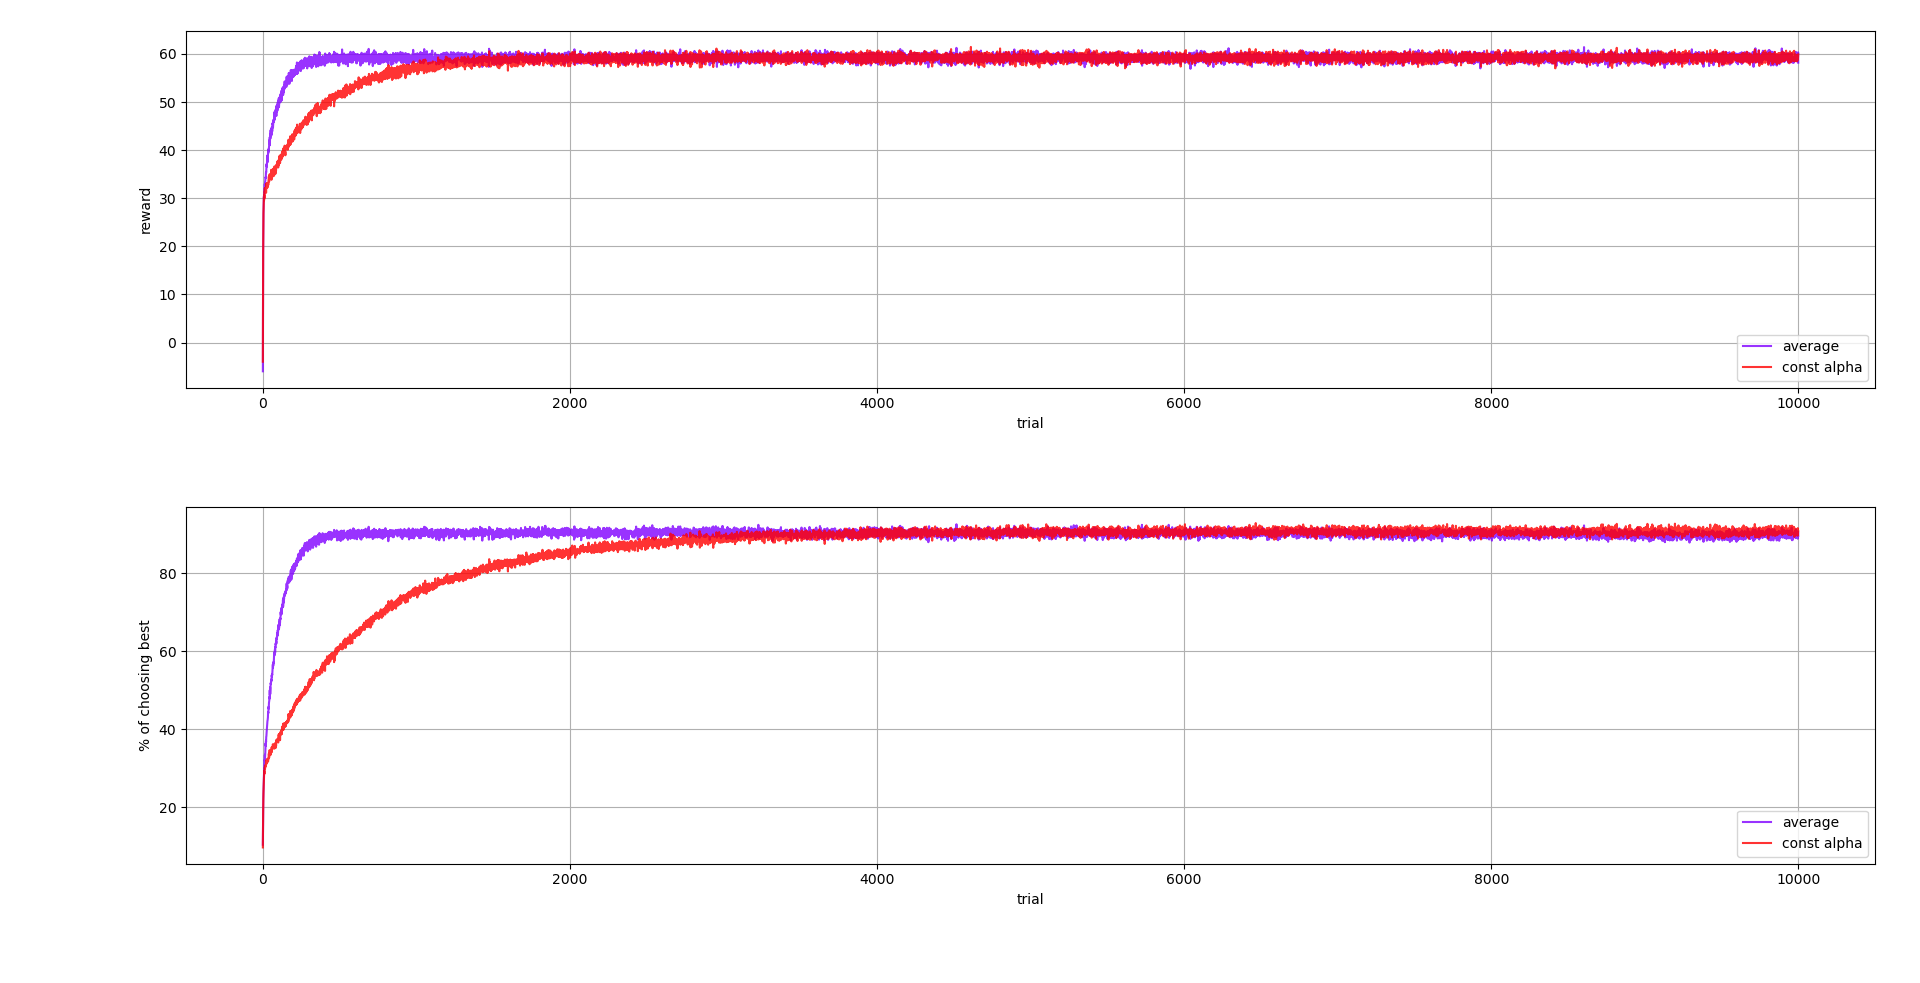
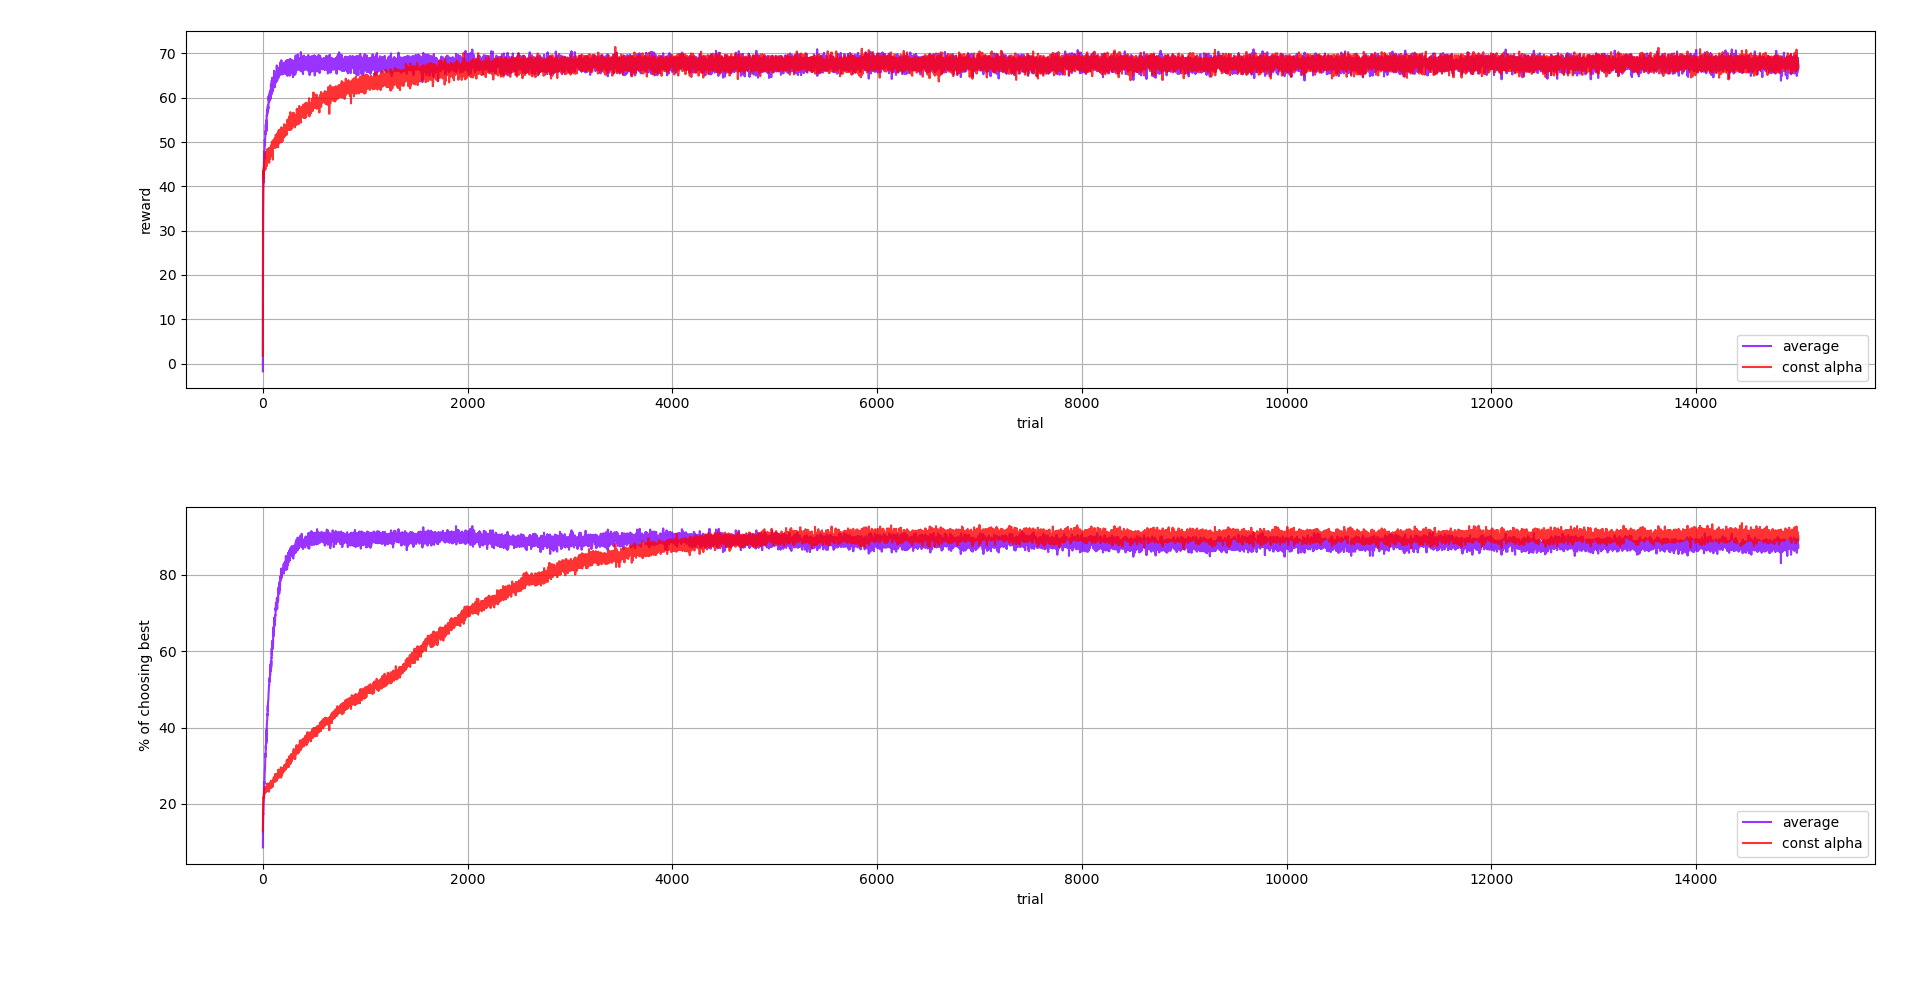
changed main to look more intuitive.

diff --git a/main.py b/main.py
@@ -62,25 +62,18 @@ def plot_testbed(test_bed: TestBed):
     plt.grid(1)
     plt.show()
 
-def run_testbed(n_steps, n_mean, n_arms, bed_type="classic", verbose=0):
+def run_testbed(n_steps, n_mean, n_arms, bed_params, verbose=0):
     """
     Runs a testbed simulation
-    :param bed_type: can be one of ["classic", "deviant"] used to choose the type of simulation.
+    :param bed_params: (TestBed, [Bandits])  instances
     :param n_teps: number of steps to train the testbed
     :param n_mean: number of trials to use when computing the mean
     :param n_arms: number of arms to use
     :param verbose: 0 -> show nothing, 1 -> show steps, 2 or more -> show steps and testbed graph
     :return: log data collected from the trials
     """
-
-    if bed_type == "classic":
-        test_bed = TestBed(n_arms)
-        bandits = [GreedyBandit(n_arms), EGreedyBandit(n_arms, eps_val=0.1), EGreedyBandit(n_arms, eps_val=0.01)]
-    elif bed_type == "deviant":
-        test_bed = DeviantTestBed(n_arms)
-        bandits = [EGreedyBandit(n_arms, eps_val=0.1), EGreedyBandit(n_arms, alpha=0.1, eps_val=0.1)]
-    else:
-        raise Exception("Testbed type not supported")
+    test_bed = bed_params[0]
+    bandits = bed_params[1]
 
     if verbose > 1:
         plot_testbed(test_bed)
@@ -104,15 +97,26 @@ def run_testbed(n_steps, n_mean, n_arms, bed_type="classic", verbose=0):
 
     return log
 
-def run_10_armed(run_type="classic"):
+def run_10_armed(n_steps, n_mean, run_type="classic"):
     """
-    run_type="classic" -> Run the 10-armed testbed example that is depicted in the RL book.
-    run_type="deviant" -> Run the deviant 10-armed testbed example requested in exercise 2.5 of the RL book.
+    :param n_teps: number of steps to train the testbed
+    :param n_mean: number of trials to use when computing the mean
+    :param run_type:
+        run_type="classic" -> Run the 10-armed testbed example that is depicted in the RL book.
+        run_type="deviant" -> Run the deviant 10-armed testbed example requested in exercise 2.5 of the RL book.
     :return: plot graph
     """
-    n_steps = 800
-    n_mean = 2000
-    log = run_testbed(n_steps, n_mean, 10, bed_type=run_type, verbose=1)
+    n_arms = 10
+    if run_type == "classic":
+        test_bed = TestBed(n_arms)
+        bandits = [GreedyBandit(n_arms), EGreedyBandit(n_arms, eps_val=0.1), EGreedyBandit(n_arms, eps_val=0.01)]
+    elif run_type == "deviant":
+        test_bed = DeviantTestBed(n_arms)
+        bandits = [EGreedyBandit(n_arms, eps_val=0.1), EGreedyBandit(n_arms, alpha=0.1, eps_val=0.1)]
+    else:
+        raise Exception("Testbed type not supported")
+
+    log = run_testbed(n_steps, n_mean, n_arms, [test_bed, bandits], verbose=1)
 
     if run_type == "classic":
         plot_data(log[0], log[1], log[2], names=["greedy", "e=0.1", "e=0.01"])
@@ -121,4 +125,4 @@ def run_10_armed(run_type="classic"):
 
 
 if __name__ == "__main__":
-    run_10_armed("classic")
+    run_10_armed(1000, 2000, "classic")
